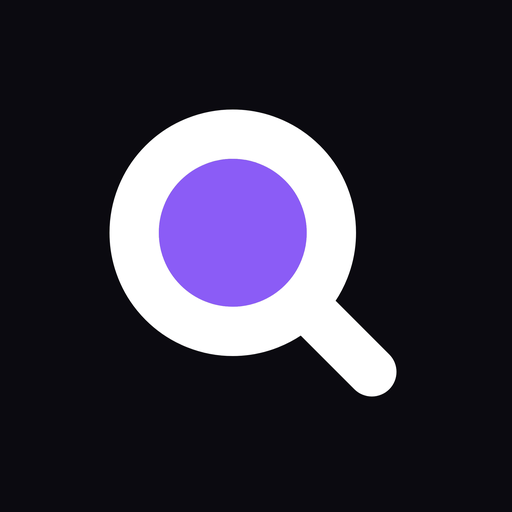
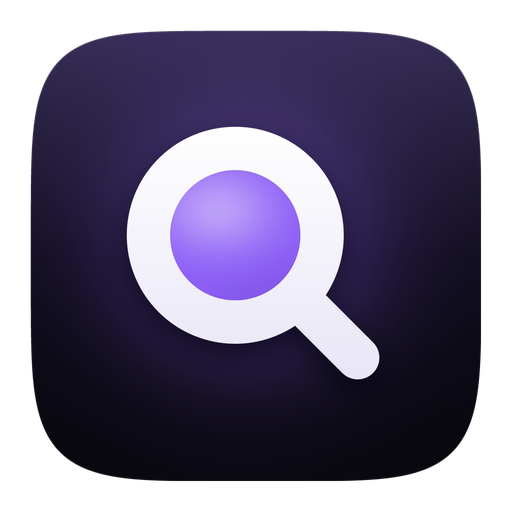
Apple kalitesi: sıvı cam, ortalı il seçimi, yüzen sekme çubuğu, afişe göre değişen arka plan, camsı uygulama simgesi
Claude-Session: https://claude.ai/code/session_01DgUC4EpyTiTxeH42sTdKUw

diff --git a/app.js b/app.js
@@ -171,18 +171,27 @@ function setTop(city) {
 function stories(items, hrefOf, { cityTag = false } = {}) {
   if (!items.length) return "";
   return `<section class="stp" aria-roledescription="carousel" aria-label="Öne çıkanlar"><div class="sg">${items.map(() => "<i><b></b></i>").join("")}</div>
-  <div class="sv">${items.map((e, i) => `<a class="sps" href="${hrefOf(e)}" aria-label="${esc(e.title)}"><img class="bg" src="${esc(e.img)}" alt="" referrerpolicy="no-referrer" ${i > 1 ? 'loading="lazy"' : ""} decoding="async">
-    <div class="po">${poster(e, { badge: false, lazy: i > 1 })}</div>
+  <div class="sv">${items.map((e, i) => `<a class="sps" href="${hrefOf(e)}" aria-label="${esc(e.title)}"><img class="bg" src="${esc(e.img)}" alt="" referrerpolicy="no-referrer" decoding="async">
+    <div class="po">${poster(e, { badge: false, lazy: false })}</div>
     <div class="tx"><span class="tg">${esc(CATS[e.cat] || "Etkinlik")}${cityTag && e.cityName ? " · " + esc(e.cityName) : ""}</span><h2>${esc(e.title)}</h2><div class="m">${rel(e.d)}${e.t ? " · " + esc(e.t) : ""}${e.venue ? " · " + esc(e.venue) : ""}</div><span class="go">İncele ${I.arr || "→"}</span></div></a>`).join("")}</div>
   <button type="button" class="nv pv" aria-label="Önceki"></button><button type="button" class="nv nx" aria-label="Sonraki"></button></section>`;
 }
 let stpStop = null;
+/* Şehir sayfasının arkasındaki bulanık renk, o an görünen afişe geçer: arka katman yüklenince iki katman yer değiştirir (yalnızca opacity) */
+function washTo(src) {
+  const w = $(".wash"); if (!w || !src) return; const [a, b] = w.querySelectorAll("img"); if (!b) return;
+  const front = a.classList.contains("on") ? a : b, back = front === a ? b : a;
+  if (front.getAttribute("src") === src) return;
+  const swap = () => { if (back.getAttribute("src") !== src) return; back.classList.add("on"); front.classList.remove("on"); };
+  back.onload = swap; back.setAttribute("src", src); if (back.complete && back.naturalWidth) swap();
+}
 function storyInit() {
   stpStop?.(); const root = $(".stp"); if (!root) return;
   root.querySelectorAll(".ph img.p").forEach((i) => { if (i.complete && i.naturalWidth) i.parentNode.classList.add("ok"); });
   const sv = $(".sv", root), segs = $$(".sg i", root), N = segs.length; let i = 0, alive = true, lock = 0;
   const paint = () => segs.forEach((g, k) => { g.className = k < i ? "done" : ""; });
-  const play = () => { paint(); const b = segs[i]; void b.offsetWidth; b.className = "on"; };
+  const slides = $$(".sps", root);
+  const play = () => { paint(); const b = segs[i]; void b.offsetWidth; b.className = "on"; washTo(slides[i]?.querySelector("img.bg")?.getAttribute("src")); };
   const go = (n, smooth = true) => { i = (n + N) % N; lock = Date.now(); sv.scrollTo({ left: i * sv.clientWidth, behavior: smooth ? "smooth" : "auto" }); play(); };
   segs.forEach((g) => g.querySelector("b").addEventListener("animationend", () => { if (alive && document.body.contains(root)) go(i + 1); }));
   $(".nx", root).addEventListener("click", () => go(i + 1)); $(".pv", root).addEventListener("click", () => go(i - 1));
@@ -297,7 +306,7 @@ function viewCity(city) {
   const featured = pick(E.filter((e) => e.img && e.d <= addD(today, 10)), 8);
   const byCat = (c) => pick(weekL.filter((e) => e.cat === c && e.img), 14).sort((a, b) => a.d.localeCompare(b.d) || (a.t || "").localeCompare(b.t || ""));
   const k = (q) => `#/${city}/kesfet?${q}`;
-  V.innerHTML = `<div class="wash" aria-hidden="true">${featured[0] ? `<img src="${esc(featured[0].img)}" alt="" referrerpolicy="no-referrer">` : ""}</div><section class="city"><h1 style="--L:${[...cname].length}">${esc(cname)}</h1><div class="st"><span><b>${todayL.length}</b> etkinlik bugün</span><span><b>${weekL.length.toLocaleString("tr-TR")}</b> bu hafta</span>${DATA.films?.films?.length ? `<span><b>${DATA.films.films.filter((f) => f.s && Object.keys(f.s).length).length}</b> film vizyonda</span>` : ""}</div>
+  V.innerHTML = `<div class="wash" aria-hidden="true">${featured[0] ? `<img class="on" src="${esc(featured[0].img)}" alt="" referrerpolicy="no-referrer"><img alt="" referrerpolicy="no-referrer">` : ""}</div><section class="city"><h1 style="--L:${[...cname].length}">${esc(cname)}</h1><div class="st"><span><b>${todayL.length}</b> etkinlik bugün</span><span><b>${weekL.length.toLocaleString("tr-TR")}</b> bu hafta</span>${DATA.films?.films?.length ? `<span><b>${DATA.films.films.filter((f) => f.s && Object.keys(f.s).length).length}</b> film vizyonda</span>` : ""}</div>
   <button type="button" class="pz" id="pz">${prefs() ? `<span class="dot"></span>Senin için kişiselleştirildi<em>Düzenle</em>` : `${I.spark}Kişiselleştir<em>İlgi alanlarını seç, sana uygun etkinlikler öne çıksın</em>`}</button></section>
   ${stories(featured, (e) => `#/${city}/e/${encodeURIComponent(e.slug)}`)}
   <form class="sbar" id="sf"><label class="sin">${I.srch}<input id="q" type="search" placeholder="Etkinlik, mekân, sanatçı ara…" enterkeyhint="search"></label><a class="fbtn" href="${k("f=1")}">${I.flt}<span class="fl">Filtrele</span></a></form>

diff --git a/index.html b/index.html
@@ -28,8 +28,8 @@
 <meta name="apple-mobile-web-app-status-bar-style" content="black-translucent">
 <meta name="apple-mobile-web-app-title" content="Ne Var Ne Yok">
 <link rel="manifest" href="manifest.webmanifest">
-<link rel="icon" type="image/png" sizes="192x192" href="icons/icon-192.png">
-<link rel="apple-touch-icon" href="icons/apple-touch-icon.png">
+<link rel="icon" type="image/png" sizes="192x192" href="icons/icon-192.png?v=2">
+<link rel="apple-touch-icon" href="icons/apple-touch-icon.png?v=2">
 <link rel="preconnect" href="https://fonts.googleapis.com">
 <link rel="preconnect" href="https://fonts.gstatic.com" crossorigin>
 <link rel="stylesheet" href="https://fonts.googleapis.com/css2?family=Archivo:wdth,wght@62..125,500..900&family=Inter+Tight:wght@400;500;600;700;800&family=Bricolage+Grotesque:opsz,wdth,wght@12..96,75..100,700..800&display=swap">
@@ -588,6 +588,32 @@ html.app .tabs:not([hidden]){display:flex}
 .pcx .cats{display:flex;flex-wrap:wrap;gap:6px;padding:0 16px 14px 66px}
 .pcx .cats span{padding:6px 10px;border-radius:9px;background:rgba(255,255,255,.06);font-size:12px;font-weight:600;color:var(--t2)}.pcx .cats span b{color:#fff}.pcx .cats span.x{opacity:.45;text-decoration:line-through}
 .cd .pr i{font-style:normal;margin-left:6px;padding:2px 7px;border-radius:99px;background:rgba(126,226,168,.14);color:#7ee2a8;font-size:11px;font-weight:800;vertical-align:1px}
+
+/* ===== APPLE "SIVI CAM" İNCE AYARI (kullanıcı isteği, 15.11.2026 21:09: "Apple kalitesinde buzlu cam, daha iyi yap; il seçimi ortalansın") =====
+   Cam: üstten alta hafif aydınlık degrade + kenarda ince parlak çizgi + üst kenarda ışık + yumuşak derin gölge. */
+:root{--lg:linear-gradient(180deg,rgba(255,255,255,.13),rgba(255,255,255,.04) 42%,rgba(255,255,255,.02));--lgk:inset 0 0 0 .5px rgba(255,255,255,.22),inset 0 1px 0 rgba(255,255,255,.22),inset 0 -1px 0 rgba(255,255,255,.04),0 1px 2px rgba(0,0,0,.25),0 24px 60px -18px rgba(0,0,0,.6)}
+/* il seçimi: her ekranda ortada, logo da ortada */
+.cs-h{justify-content:center}
+.pick{margin-left:auto;margin-right:auto;width:100%;border-radius:32px;box-shadow:0 40px 100px -30px rgba(0,0,0,.8),0 0 120px -40px rgba(139,92,246,.55)}
+.pick .glass{border:0;border-radius:32px;background:var(--lg),rgba(22,20,34,.42);-webkit-backdrop-filter:saturate(1.8) blur(28px);backdrop-filter:saturate(1.8) blur(28px);box-shadow:var(--lgk);text-align:center}
+.pick .glass h1{text-align:center}
+.pick .glass .cin{box-shadow:inset 0 0 0 .5px rgba(255,255,255,.18),inset 0 1px 2px rgba(0,0,0,.25)}
+.whl .band{border-radius:16px;background:linear-gradient(180deg,rgba(255,255,255,.14),rgba(255,255,255,.07));box-shadow:inset 0 0 0 .5px rgba(255,255,255,.22),inset 0 1px 0 rgba(255,255,255,.18)}
+.cs .cs-t{text-align:center}
+/* alt sekme çubuğu: iOS 26 gibi yüzen cam kapsül; seçili sekmenin arkasında cam hap */
+.tabs{left:50%;right:auto;bottom:max(10px,env(safe-area-inset-bottom));transform:translateX(-50%);width:min(calc(100% - 24px),460px);padding:6px;gap:2px;border:0;border-radius:999px;background:var(--lg),rgba(20,18,30,.5);-webkit-backdrop-filter:saturate(2) blur(26px);backdrop-filter:saturate(2) blur(26px);box-shadow:var(--lgk)}
+.tabs a{border-radius:999px;padding:7px 0 5px}
+.tabs a.on{background:linear-gradient(180deg,rgba(255,255,255,.16),rgba(255,255,255,.07));box-shadow:inset 0 0 0 .5px rgba(255,255,255,.2),inset 0 1px 0 rgba(255,255,255,.16)}
+.tabs a.on{color:#fff}.tabs a.on svg{color:#c4b5fd}
+html.app body:has(.tabs:not([hidden])) #view{padding-bottom:calc(96px + env(safe-area-inset-bottom))}
+@media (max-width:820px){body:has(.tabs:not([hidden])) #view{padding-bottom:calc(96px + env(safe-area-inset-bottom))}}
+/* üst çubuk ve şehir/zil/ara düğmeleri: aynı cam */
+.cbtn,.ibtn{background:var(--lg),rgba(255,255,255,.04);box-shadow:inset 0 0 0 .5px rgba(255,255,255,.2),inset 0 1px 0 rgba(255,255,255,.14)}
+/* şehir sayfasının arkasındaki renk: o an görünen afişe göre yumuşakça değişir (iki katman, yalnızca opacity) */
+.wash img{position:absolute;inset:0;opacity:0;transition:opacity 1.2s ease;will-change:opacity}
+.wash img.on{opacity:.42}
+/* kayan sayfa kartı da cam */
+.sps::after{box-shadow:inset 0 0 0 .5px rgba(255,255,255,.16),inset 0 1px 0 rgba(255,255,255,.12)}
 </style>
 </head>
 <body>

diff --git a/indir/index.html b/indir/index.html
@@ -10,8 +10,8 @@
 <meta property="og:image" content="https://nevarneyok.net.tr/icons/og.png">
 <meta name="theme-color" content="#0a0a10">
 <link rel="manifest" href="../manifest.webmanifest">
-<link rel="icon" type="image/png" sizes="192x192" href="../icons/icon-192.png">
-<link rel="apple-touch-icon" href="../icons/apple-touch-icon.png">
+<link rel="icon" type="image/png" sizes="192x192" href="../icons/icon-192.png?v=2">
+<link rel="apple-touch-icon" href="../icons/apple-touch-icon.png?v=2">
 <meta name="apple-mobile-web-app-capable" content="yes">
 <meta name="apple-mobile-web-app-title" content="Ne Var Ne Yok">
 <link rel="preconnect" href="https://fonts.googleapis.com"><link rel="preconnect" href="https://fonts.gstatic.com" crossorigin>

diff --git a/brand/make-assets.py b/brand/make-assets.py
@@ -18,9 +18,49 @@ def cut(src, dst, pad=6):
     out = Image.fromarray(np.dstack([col, a * 255]).astype(np.uint8), 'RGBA').crop((xs.min() - pad, ys.min() - pad, xs.max() + pad + 1, ys.max() + pad + 1))
     out.save(dst, optimize=True); return out
 lg = cut(f'{H}/nevarneyok-logo.png', f'{H}/logo.png'); cut(f'{H}/nevarneyok-simge.png', f'{H}/mark.png')
-src = Image.open(f'{H}/nevarneyok-simge.png').convert('RGB')
-for f, w in [('icon-512.png', 512), ('icon-192.png', 192), ('apple-touch-icon.png', 180), ('icon-maskable-512.png', 512)]:
-    src.resize((w, w), Image.LANCZOS).save(f'{R}/icons/{f}', optimize=True)
+# UYGULAMA SİMGESİ, APPLE KALİTESİNDE (kullanıcı isteği, 15.11.2026: "Apple'da göründüğü gibi kaliteli, camsı").
+# Büyüteç (mark.png) BİREBİR, yeri ve boyu kullanıcının simgesindeki gibi (%21,4 / %56). Yalnızca ışık eklenir:
+# koyu mor degrade zemin + merceğin arkasında yumuşak mor ışık + üstte ince parlaklık; büyütecin altına yumuşak gölge;
+# mor camın sol üstüne cam parlaması, alt kenarına hafif derinlik. "any" simgeler kenar boşluklu yuvarlatılmış kare (masaüstü
+# ve Android rıhtımında gerçek uygulama simgesi gibi), apple-touch ve maskable tam kare (sistem kendisi keser).
+from PIL import ImageFilter
+def glass_icon(S=1024):
+    yy, xx = np.mgrid[0:S, 0:S].astype(np.float64) / S
+    top, bot = np.array([38., 28, 70]), np.array([9., 8, 15])
+    t = np.clip(yy * 1.05, 0, 1)[..., None]; img = top * (1 - t) ** 1.6 + bot * (1 - (1 - t) ** 1.6)
+    cx, cy = .476, .476  # merceğin merkezi (kullanıcının simgesinde)
+    g = np.exp(-(((xx - cx) ** 2 + (yy - cy) ** 2) / (2 * .2 ** 2)))[..., None]
+    img = img + np.array([139., 92, 246]) * .42 * g
+    img = img + 255 * np.clip(.07 * (1 - yy / .5), 0, None)[..., None]          # üstte ince parlaklık
+    base = Image.fromarray(np.clip(img, 0, 255).astype(np.uint8)).convert('RGBA')
+    mk = Image.open(f'{H}/mark.png').convert('RGBA'); w = round(S * 1223 / 2160); mk = mk.resize((w, w), Image.LANCZOS)
+    pos = round(S * (462 - 6) / 2160)
+    a = np.asarray(mk).astype(np.float64); al = a[..., 3] / 255
+    sh = Image.new('L', (S, S)); sh.paste(Image.fromarray((al * 255).astype(np.uint8)), (pos, pos + round(S * .025)))
+    sh = sh.filter(ImageFilter.GaussianBlur(S * .03)); shadow = Image.new('RGBA', (S, S), (4, 2, 12, 0)); shadow.putalpha(sh.point(lambda v: int(v * .7)))
+    base = Image.alpha_composite(base, shadow)
+    # mor cam: parlama + derinlik (yalnızca mor bölgede)
+    rgb = a[..., :3]; pur = al * np.clip(1 - np.linalg.norm(rgb - [139, 92, 246], axis=-1) / 90, 0, 1)
+    my, mx = np.mgrid[0:w, 0:w].astype(np.float64) / w
+    spec = np.exp(-(((mx - .36) ** 2) / (2 * .16 ** 2) + ((my - .33) ** 2) / (2 * .12 ** 2)))
+    deep = np.clip((my - .45) / .45, 0, 1) * np.clip((mx + my - .9) / .9, 0, 1)
+    rgb = rgb + (255 - rgb) * (pur * spec * .42)[..., None] - rgb * (pur * deep * .3)[..., None]
+    wht = al * np.clip(1 - np.linalg.norm(a[..., :3] - 255, axis=-1) / 60, 0, 1)   # beyaz halka: alta doğru çok hafif lavanta
+    rgb = rgb - (wht * my * 22)[..., None] * np.array([1, 1.15, .4])
+    mk = Image.fromarray(np.dstack([np.clip(rgb, 0, 255), a[..., 3]]).astype(np.uint8), 'RGBA')
+    base.alpha_composite(mk, (pos, pos))
+    return base
+def squircle(img, margin=.06, n=5):
+    S = img.width; yy, xx = np.mgrid[0:S * 4, 0:S * 4].astype(np.float64) / (S * 4)
+    r = .5 - margin; m = (np.abs((xx - .5) / r) ** n + np.abs((yy - .5) / r) ** n) <= 1
+    M = Image.fromarray((m * 255).astype(np.uint8)).resize((S, S), Image.LANCZOS)
+    inner = img.resize((round(S * (1 - 2 * margin)),) * 2, Image.LANCZOS); out = Image.new('RGBA', (S, S)); out.paste(inner, (round(S * margin),) * 2)
+    hl = Image.new('RGBA', (S, S), (255, 255, 255, 0)); edge = np.asarray(M).astype(np.float64) - np.asarray(M.filter(ImageFilter.MinFilter(3))).astype(np.float64)
+    hl.putalpha(Image.fromarray(np.clip(edge * .22 * np.clip(1.2 - yy[::4, ::4] * 2, .25, 1), 0, 255).astype(np.uint8)))
+    out = Image.alpha_composite(out, hl); out.putalpha(Image.fromarray(np.minimum(np.asarray(out)[..., 3], np.asarray(M)))); return out
+G = glass_icon(); Q = squircle(G)
+for f, w, im in [('icon-512.png', 512, Q), ('icon-192.png', 192, Q), ('apple-touch-icon.png', 180, G), ('icon-maskable-512.png', 512, G)]:
+    o = im.resize((w, w), Image.LANCZOS); (o if im is Q else o.convert('RGB')).save(f'{R}/icons/{f}', optimize=True)
 og = Image.new('RGB', (1200, 630), (11, 10, 16)); L = lg.resize((680, int(680 * lg.height / lg.width)), Image.LANCZOS)
 og.paste(L, ((1200 - L.width) // 2, (630 - L.height) // 2), L); og.save(f'{R}/icons/og.png', optimize=True)
 print('ok')

diff --git a/CLAUDE.md b/CLAUDE.md
@@ -19,6 +19,7 @@ Kullanıcıyla her zaman Türkçe konuş.
 - **Filtre ekranı (kullanıcı isteği, 15.11.2026 13:00):** akordeon yok, Apple uygulaması gibi bütün bölümler açık: Ne zaman (kaydırmalı düğmeler + gün kartları), Kategori ve Saat (simgeli kutucuklar, sayılı, mor parlar), Fiyat (düğmeler), Kimler için (iOS segment), Semt ve Mekân (cam kart), Diğer (iOS anahtar listesi); altta canlı "X etkinliği göster".
 - **Instagram'dan /indir (kullanıcı isteği, 15.11.2026):** uygulama içi tarayıcı (Instagram vb.) açılınca sayfa kendiliğinden gerçek tarayıcıya geçer: Android'de Chrome (`intent://…?kur=1`), iPhone'da Safari (`x-safari-https://…?kur=1`, iOS 17+); oturumda bir kez (`nvny-yonlendi`). `?kur=1` ile gelende kurulum hazır olunca ekranın tamamı "Yükle" kartı olur (`#kurx`), herhangi bir dokunuş tarayıcının yükleme penceresini açar (tarayıcı kurulumu dokunuşsuz başlatmaya izin vermez).
 - **Bildirim dili (kullanıcı isteği, 15.11.2026 17:51):** sıcak ve samimi, emojili kısa cümleler; "dürtmek" gibi sözler yok (`takip.js` STB ve mesajlar, `welcomeApp`). **Bildirim sayısı az olmasın (18:07):** takip edilen etkinlikte 1 hafta, 3 gün, 1 gün önce, o gün, başlamadan 3 saat içinde "Az kaldı", ertesi gün "Dün nasıldı?"; ayrıca günde en çok bir öneri (`NV.digest`): Pzt haftanın planı, Çar bu akşam, Per-Cum hafta sonu, Cmt bugün, Paz pazar keyfi (Salı yok).
+- **Sıvı cam, ortalı il seçimi, değişen arka plan, yeni simge (kullanıcı isteği, 15.11.2026 21:09):** il seçimi (logo, cam panel, "öne çıkanlar" başlığı) her ekranda ortada; panel ve alt sekme çubuğu Apple "sıvı cam" (`--lg` degrade + `--lgk` kenar/ışık/gölge). Alt sekme çubuğu iOS 26 gibi **yüzen cam kapsül**, seçili sekmenin arkasında cam hap. Şehir sayfasının arkasındaki bulanık renk (`.wash`, iki katman) **o an görünen kayan sayfanın afişine** yumuşakça geçer (`washTo`, yalnızca opacity); kayan sayfa afişleri tembel yüklenmez. **Uygulama simgesi:** büyüteç birebir, yeri/boyu aynı; yalnızca ışık eklendi (koyu mor degrade zemin, merceğin arkasında mor ışık, mor cama parlama, büyüteç gölgesi) — `brand/make-assets.py` → `glass_icon()`; "any" simgeler kenar boşluklu yuvarlak kare, apple-touch ve maskable tam kare. Simge adresleri `?v=2` (kurulu uygulamalar yenilensin).
 - **"HOŞ GELDİNİZZZ 🎉" yalnızca bildirim olarak ve yalnızca uygulamayı indirip açana** gider (`welcomeApp`, `html.app`): izin varsa hemen, yoksa önce "Bildirimleri aç" sorusu.
 - **Bütün Türkiye (kullanıcı isteği, 15.11.2026):** 81 il. Ankara eskisi gibi (`update.yml`, 32 kaynak, `data/events.json`). Diğer iller **"Şehirleri güncelle"** (`sehirler.yml`, günde 2 kez: 03:00 ve 14:00): her il ayrı işte yan yana (en çok 20) `CITY=<il> SOURCES_FILE=./sources/city.mjs node run.mjs` (il başına Biletinial: şehir numarasını kendi sayfasından öğrenir) + `films.mjs` (sinemalar.com; il adları sitenin `sinemasalonlari` listesindeki gibi: İstanbul = `istanbul` (Avrupa) + `istanbul-anadolu`, Afyonkarahisar = `afyon`, Sakarya = `adapazari`) → `data/c/src/<il>.json`, `data/c/<il>-films.json`. Bütün Türkiye'yi tek listede veren kaynaklar (Sanatçepte/Devlet Tiyatroları, DOB, tiyatrolar.com.tr, iTicket, Biletix Türkiye listesi — Biletix şehir seçimini dikkate almıyor) bir kez `CITY=tr` ile taranır (`data/c/_tr.json`), etkinliğin ili adresinden bulunur (`lib/cities.mjs` → `cityOfText`: il adı, büyük şehirlerde ilçe/semt/mekân). `sehirler-birlestir.mjs` → `data/c/<il>.json` (sitenin okuduğu), `data/cities.json` (il başına etkinlik ve **seansı olan** film sayısı; etkinliği ya da seansı olan il açılır — 15.11.2026'da 76/81 il) ve `data/one-cikan.json`. Bot korumalı siteler (Bubilet, Passo, Biletino, Mobilet; RA 403) diğer illerde de taranmaz. BUGECE / Radar / tiyatrolar.com.tr'nin il adresleri henüz bulunmadı. Elle eklenenler (`manual.csv`) şimdilik yalnız Ankara. Mekân konumu (harita) şimdilik yalnız Ankara (`geo.mjs` Ankara sınırı).
 - **Sinema seansları (15.11.2026 düzeltmesi):** sinemalar.com'da saat iki biçimde yazar: online bilet satan salonda düğme, satmayanda düz etiket (`<div class="chip">`); ikisi de okunur (önceden yalnızca düğme okunuyordu, Samsun Piazza gibi salonlar kayboluyordu). Saati okunamayan kart olursa `films.json` notlarına "DİKKAT" düşer. Yalnızca seansları yenilemek için `sehirler.yml` → `film: true`.
